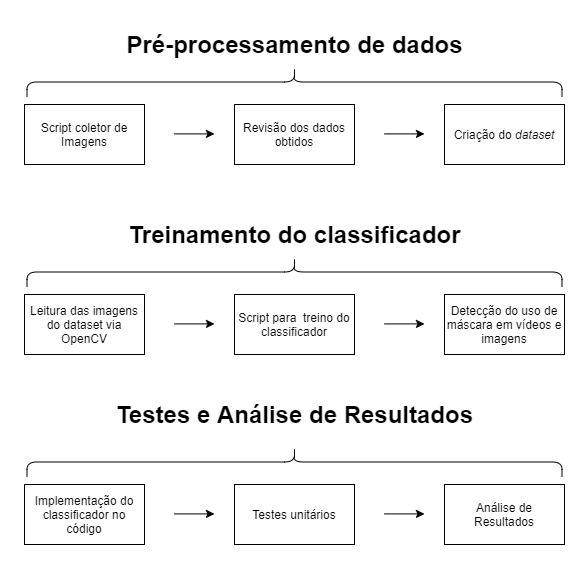
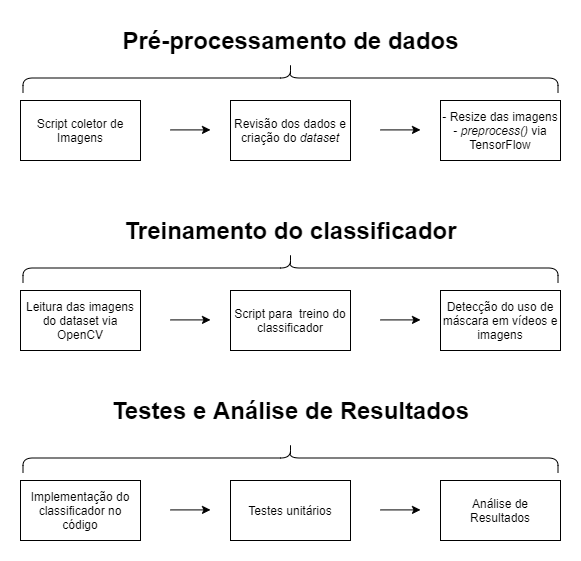
chore: finished T1

diff --git a/T1/index.html b/T1/index.html
@@ -39,7 +39,7 @@
 
   <div class='content'>
 
-    <h1>Detecção de uso de máscara facial</h1>
+    <h1>Detecção do uso de Máscara Facial</h1>
 
     <div class="card">
       <div class="card-body" style="padding: 2rem;">
@@ -100,6 +100,8 @@
         </div>
         <p class="text-center mt-2"><i>Código do script em JS para download das imagens</i></p>
         <p>Após o download das imagens, foi necessário realizar uma revisão sobre as mesmas, pois o parâmetro de busca traz imagens incongruentes ao projeto e, por se tratar de uma automação, não houve um "filtro" inicial. No fim, foi possível construir um corpus com mais de 1.200 imagens.</p>
+        <p>Com o <i>dataset</i> montado, passamos para o pré-processamento das imagens, no qual será realizado o resize das imagens e a execução do método <i>preprocess()</i> da biblioteca TensorFlow</p>
+        <i>[EM ANDAMENTO...]</i>
         <h4 class="mt-4 text-secondary">> Treinamento do classificador via inteligência Artificial</h4>
         <p>Para criarmos o classificador que identifica o uso de máscara utilizaremos metodologias de <i>"deep learning"</i> via <a href="https://www.tensorflow.org/?hl=pt-br" target="_blank">TensorFlow</a>, um framework open source para machine learning.</p>
         <i>[EM ANDAMENTO...]</i>
@@ -107,6 +109,9 @@
           <ul>
             <li>
               Estudo e aprendizado sobre TensorFlow
+            </li>
+            <li>
+              Código de pré-processamento da imagem, realizando o resize e método preprocess do TensorFlow
             </li>
             <li>
               Treinamento do algorítmo
